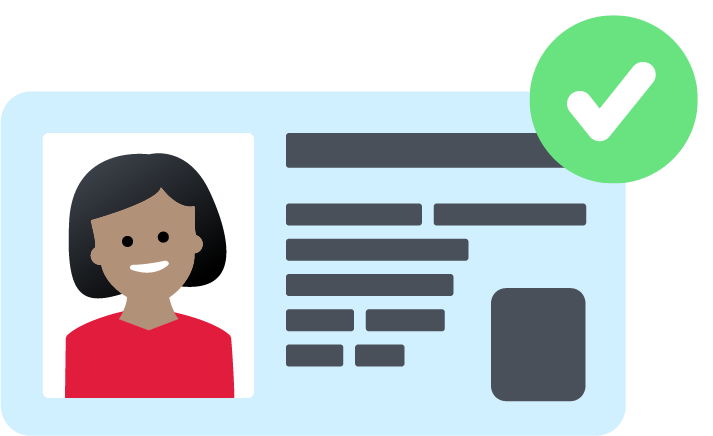
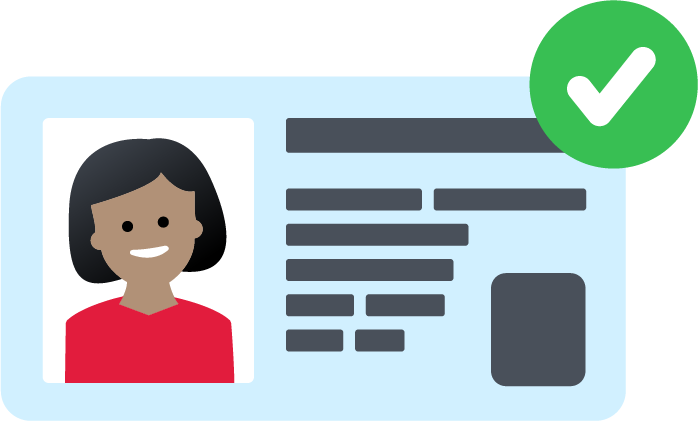
update address images, add new pages

diff --git a/_pages/idv/03b.html b/_pages/idv/03b.html
@@ -1,0 +1,20 @@
+---
+layout: default
+title: Your personal information has been verified.
+permalink: /idv/address_confirm
+---
+
+<div class="container sm-pt4">
+  <div class="px2 py3 sm-py5 sm-px6 mx-auto sm-mb5 border-box card">
+    <form autocomplete="off" role="form" class="simple_form new_profile" id="new_profile" action="{{ "/idv/session/" | prepend: site.baseurl }}" accept-charset="UTF-8">
+      <img alt="images" class="mb2" width="200" src="{{ "/images/addy-confirm@3x.png" | prepend: site.baseurl }}">
+      <h1 class="h3 mt2 mb6 pb6">
+        Next, we need to confirm your address by sending you an <span class="underline">address confirmation code</span>.
+      </h1>
+
+        <button class="btn btn-primary btn-wide" type="submit">Continue</button>
+        {% include cancel-identity.html %}
+
+    </form>
+  </div>
+</div>

diff --git a/_pages/idv/03a.html b/_pages/idv/03a.html
@@ -6,9 +6,9 @@ permalink: /idv/info_verified
 
 <div class="container sm-pt4">
   <div class="px2 py3 sm-py5 sm-px6 mx-auto sm-mb5 border-box card">
-    <form autocomplete="off" role="form" class="simple_form new_profile" id="new_profile" action="{{ "/idv/session/" | prepend: site.baseurl }}" accept-charset="UTF-8">
+    <form autocomplete="off" role="form" class="simple_form new_profile" id="new_profile" action="{{ "/idv/address_confirm" | prepend: site.baseurl }}" accept-charset="UTF-8">
       <img alt="images" class="mb2" width="200" src="{{ "/images/ID-confirm@3x.png" | prepend: site.baseurl }}">
-      <h1 class="h3 mt2">
+      <h1 class="h3 mt2 mb6 pb6">
         Your personal information has been verified.
       </h1>
 
